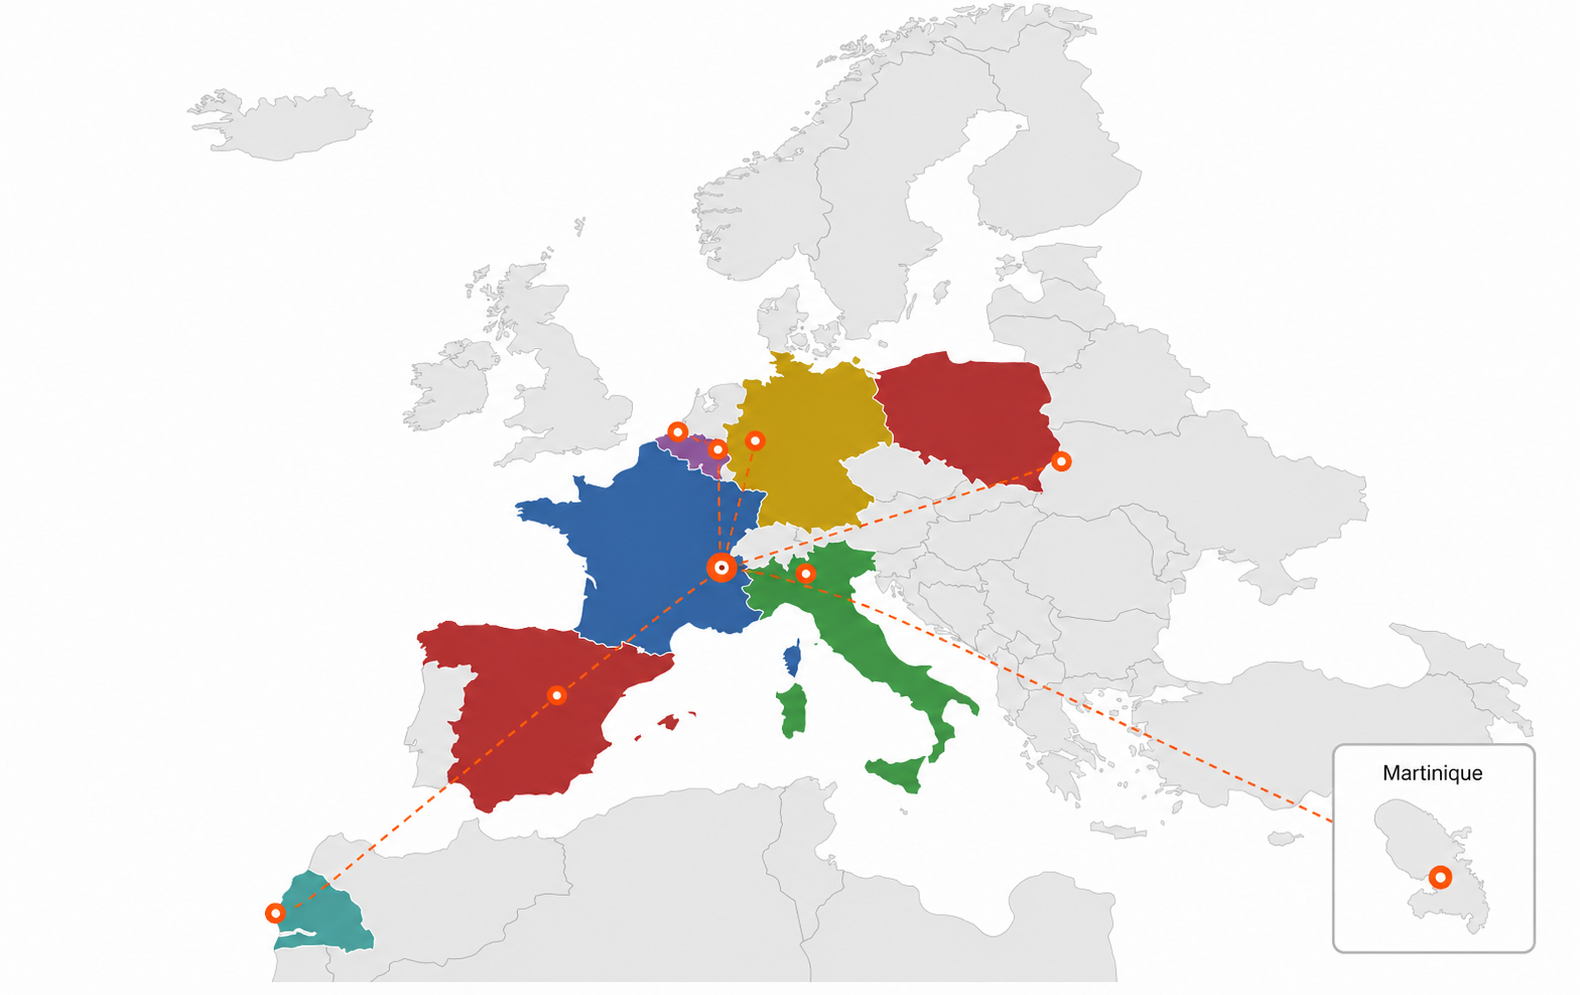
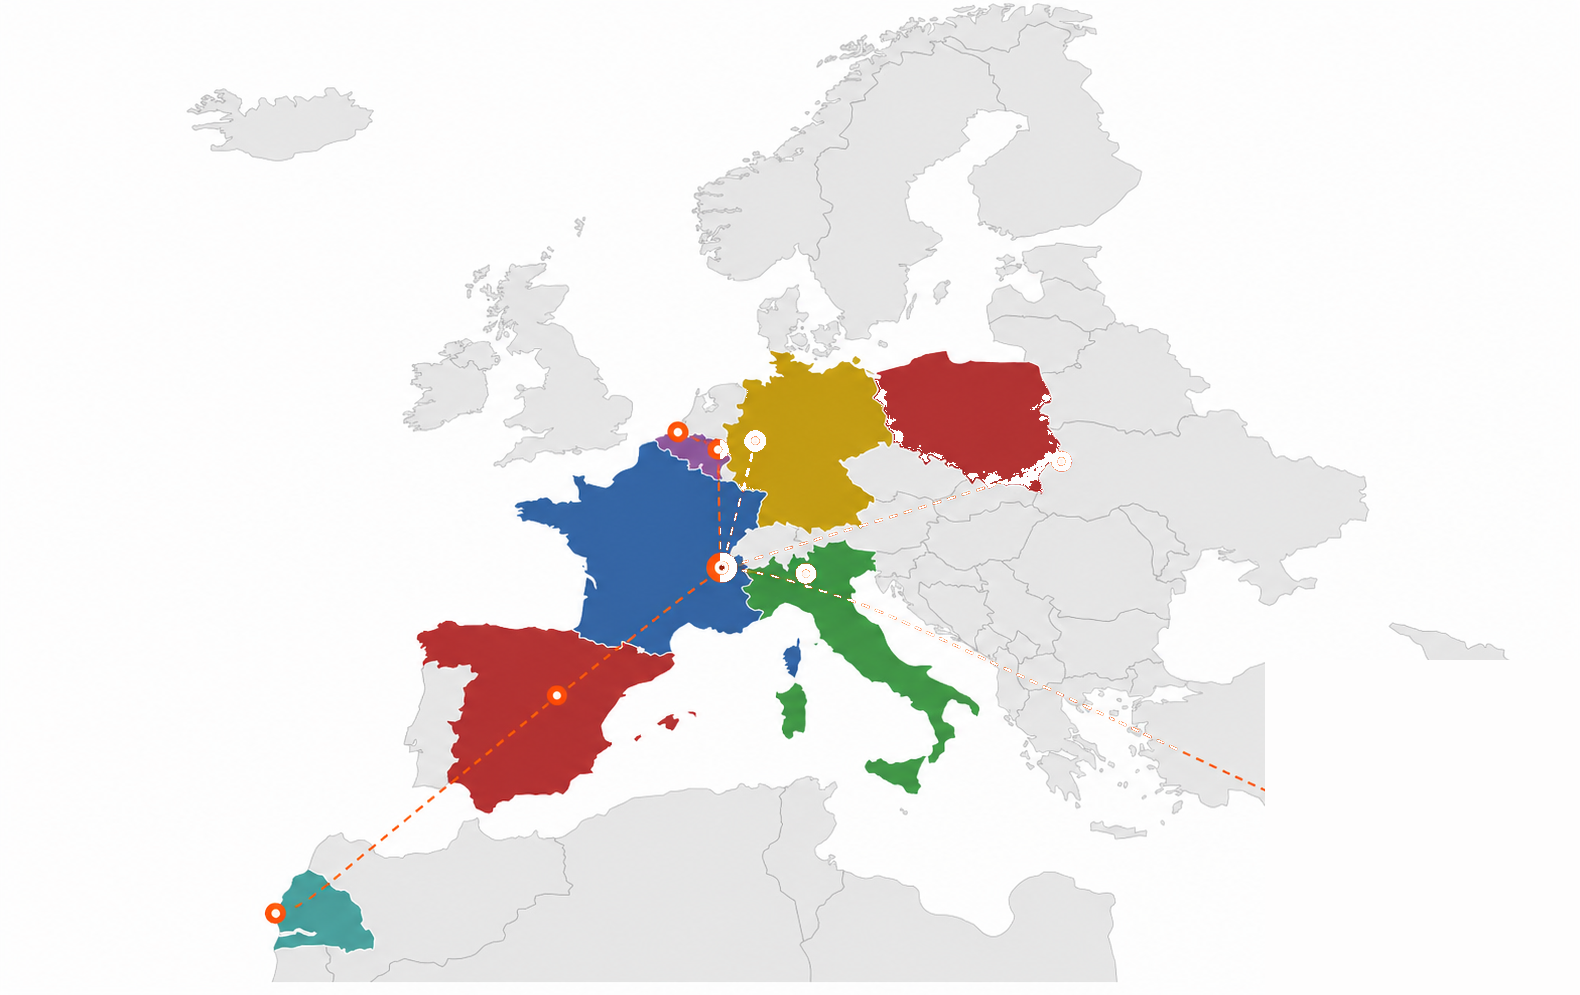
References : Martinique repositionnée à l'ouest (cohérence géographique)
- L'encart Martinique mal placé (bas-droite, vers Moyen-Orient) est nettoyé directement dans europe-map-reference.png : effacement du rectangle inset et des pointillés orange du tracé France→est.
- Overlay SVG inline ajouté sur la figure : nouvel encart Martinique en bas-gauche (côté Atlantique) avec marqueur Fort-de-France et silhouette stylisée, et trait pointillé France→Martinique vers l'ouest.
- Wrapper .map-figure-wrap (relative + image block) pour caler l'overlay sur l'image.
- Intro reformulée FR/EN/IT : « six pays européens, le Sénégal (Dakar) et la Martinique » — plus juste vu la nouvelle géographie.

diff --git a/references.html b/references.html
@@ -194,12 +194,28 @@
             <span class="eyebrow eyebrow--green" data-i18n="refs.map.eyebrow">Implantations</span>
             <h2 data-i18n="refs.map.h2">Europe, Afrique de l'Ouest et Caraïbes.</h2>
           </div>
-          <p class="section-header__intro" data-i18n="refs.map.intro">Base en Auvergne-Rhône-Alpes, interventions récurrentes sur six pays européens et projets livrés à Dakar (Sénégal) et en Martinique. Équipes terrain mobilisables selon le périmètre et la zone d'intervention du chantier.</p>
+          <p class="section-header__intro" data-i18n="refs.map.intro">Base en Auvergne-Rhône-Alpes, interventions récurrentes sur six pays européens, le Sénégal (Dakar) et la Martinique. Équipes terrain mobilisables selon le périmètre et la zone d'intervention du chantier.</p>
         </header>
 
         <div class="map-showcase">
           <figure class="map-showcase__figure">
-            <img src="assets/europe-map-reference.png" alt="Carte des pays d'intervention Ener-Co · Europe, Afrique de l'Ouest et Caraïbes">
+            <div class="map-figure-wrap">
+              <img src="assets/europe-map-reference.png" alt="Carte des pays d'intervention Ener-Co · Europe, Afrique de l'Ouest et Caraïbes">
+              <svg class="map-overlay" viewBox="0 0 1580 995" preserveAspectRatio="xMidYMid meet" aria-hidden="true">
+                <!-- Trait pointillé Lyon → Martinique (vers l'ouest, cohérent avec la position des Caraïbes) -->
+                <path d="M 730 480 Q 520 470 280 540" fill="none" stroke="#d8541a" stroke-width="3" stroke-dasharray="2 8" stroke-linecap="round" opacity="0.85"/>
+                <!-- Encart Martinique en bas à gauche -->
+                <g transform="translate(60 460)">
+                  <rect x="0" y="0" width="220" height="160" rx="8" ry="8" fill="#ffffff" stroke="#cfd4da" stroke-width="1.5"/>
+                  <text x="14" y="26" font-family="Inter, system-ui, sans-serif" font-size="16" font-weight="600" fill="#1b2129">Martinique</text>
+                  <!-- Silhouette stylisée Martinique -->
+                  <path d="M 116 70 q 8 -10 14 -6 q 6 4 4 14 q 4 6 -2 14 q 2 10 -6 14 q 0 12 -10 14 q -10 -2 -14 -10 q -10 0 -10 -10 q -4 -6 0 -14 q -2 -10 8 -14 q 6 -8 16 -2 z" fill="#cfe9e6" stroke="#9bd1cb" stroke-width="1"/>
+                  <!-- Marqueur orange Fort-de-France -->
+                  <circle cx="116" cy="100" r="9" fill="#ffffff" stroke="#d8541a" stroke-width="3"/>
+                  <circle cx="116" cy="100" r="3" fill="#d8541a"/>
+                </g>
+              </svg>
+            </div>
           </figure>
           <div class="map-showcase__aside">
             <article class="map-note map-note--active">

diff --git a/assets/site.js b/assets/site.js
@@ -438,7 +438,7 @@ const I18N = {
     "refs.chantier.panattoni": "Poste HTA · Panattoni, Colombier-Saugnieu",
     "refs.map.eyebrow": "Implantations",
     "refs.map.h2": "Europe, Afrique de l'Ouest et Caraïbes.",
-    "refs.map.intro": "Base en Auvergne-Rhône-Alpes, interventions récurrentes sur six pays européens et projets livrés à Dakar (Sénégal) et en Martinique. Équipes terrain mobilisables selon le périmètre et la zone d'intervention du chantier.",
+    "refs.map.intro": "Base en Auvergne-Rhône-Alpes, interventions récurrentes sur six pays européens, le Sénégal (Dakar) et la Martinique. Équipes terrain mobilisables selon le périmètre et la zone d'intervention du chantier.",
     "refs.country.fr": "France",
     "refs.country.fr.p": "Siège Rhône-Alpes · équipes résidentes · couverture nationale",
     "refs.country.fr.chip": "Base principale",
@@ -992,7 +992,7 @@ const I18N = {
     "refs.chantier.panattoni": "MV substation · Panattoni, Colombier-Saugnieu",
     "refs.map.eyebrow": "Locations",
     "refs.map.h2": "Europe, West Africa and the Caribbean.",
-    "refs.map.intro": "Based in Auvergne-Rhône-Alpes, recurring interventions across six European countries and projects delivered in Dakar (Senegal) and Martinique. Field teams mobilisable according to the scope and zone of the project.",
+    "refs.map.intro": "Based in Auvergne-Rhône-Alpes, recurring interventions across six European countries, Senegal (Dakar) and Martinique. Field teams mobilisable according to the scope and zone of the project.",
     "refs.country.fr": "France",
     "refs.country.fr.p": "Rhône-Alpes head office · in-house teams · nationwide coverage",
     "refs.country.fr.chip": "Main base",
@@ -1546,7 +1546,7 @@ const I18N = {
     "refs.chantier.panattoni": "Cabina MT · Panattoni, Colombier-Saugnieu",
     "refs.map.eyebrow": "Sedi",
     "refs.map.h2": "Europa, Africa occidentale e Caraibi.",
-    "refs.map.intro": "Base in Auvergne-Rhône-Alpes, interventi ricorrenti in sei paesi europei e progetti realizzati a Dakar (Senegal) e in Martinica. Squadre sul campo mobilitabili in base al perimetro e alla zona di intervento del cantiere.",
+    "refs.map.intro": "Base in Auvergne-Rhône-Alpes, interventi ricorrenti in sei paesi europei, in Senegal (Dakar) e in Martinica. Squadre sul campo mobilitabili in base al perimetro e alla zona di intervento del cantiere.",
     "refs.country.fr": "Francia",
     "refs.country.fr.p": "Sede Rhône-Alpes · squadre residenti · copertura nazionale",
     "refs.country.fr.chip": "Base principale",

diff --git a/assets/site.css b/assets/site.css
@@ -1706,6 +1706,24 @@ p { font-size: 1rem; color: var(--muted); }
   width: 100%;
   height: auto;
   object-fit: contain;
+  display: block;
+}
+.map-figure-wrap {
+  position: relative;
+  width: 100%;
+  line-height: 0;
+}
+.map-figure-wrap > img {
+  width: 100%;
+  height: auto;
+  display: block;
+}
+.map-overlay {
+  position: absolute;
+  inset: 0;
+  width: 100%;
+  height: 100%;
+  pointer-events: none;
 }
 .map-showcase__aside { display: grid; gap: 12px; }
 
